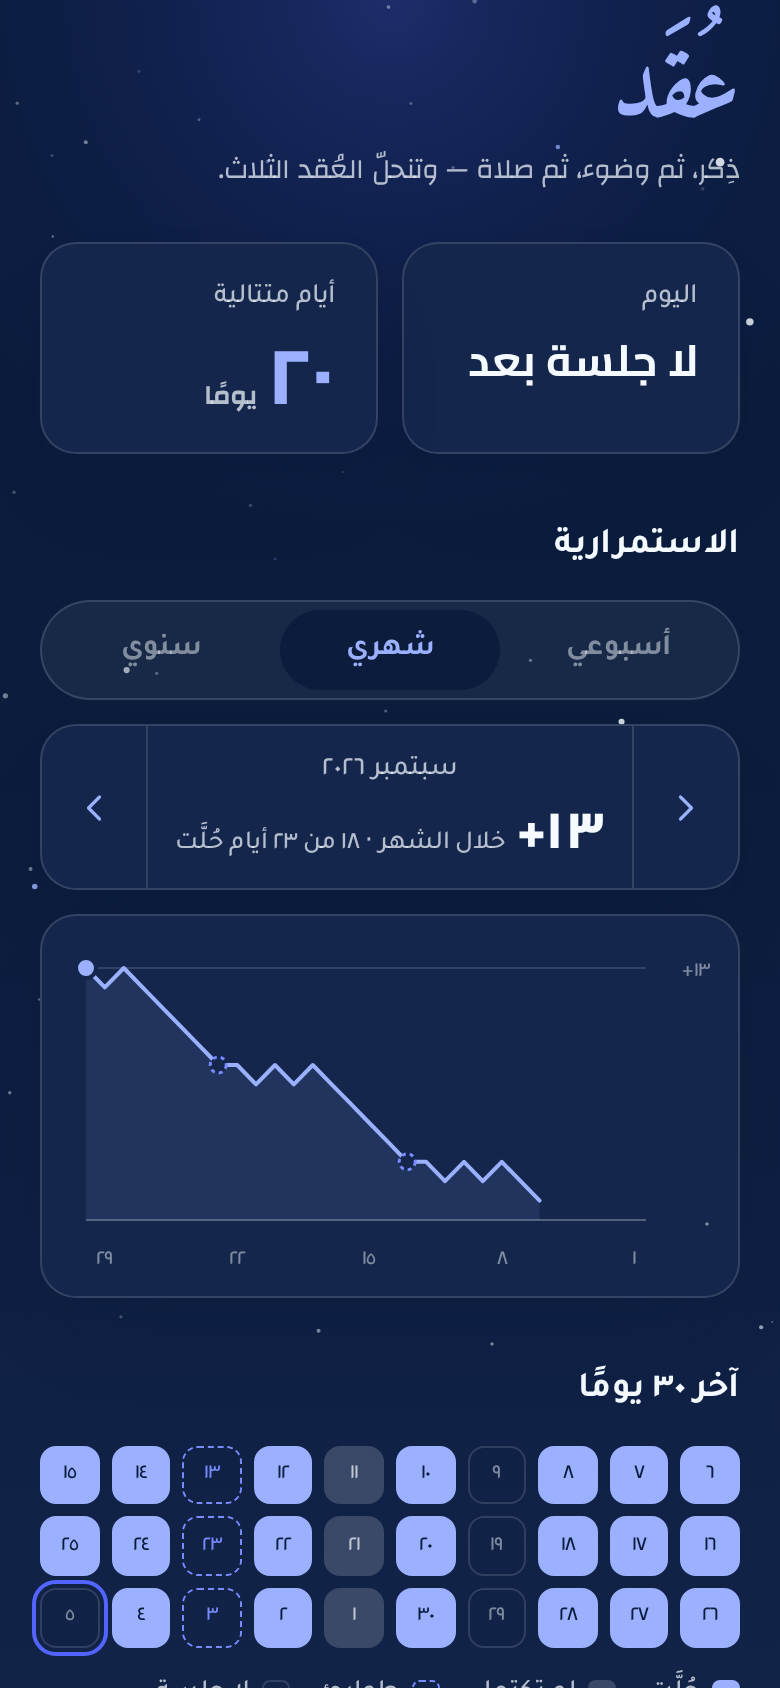
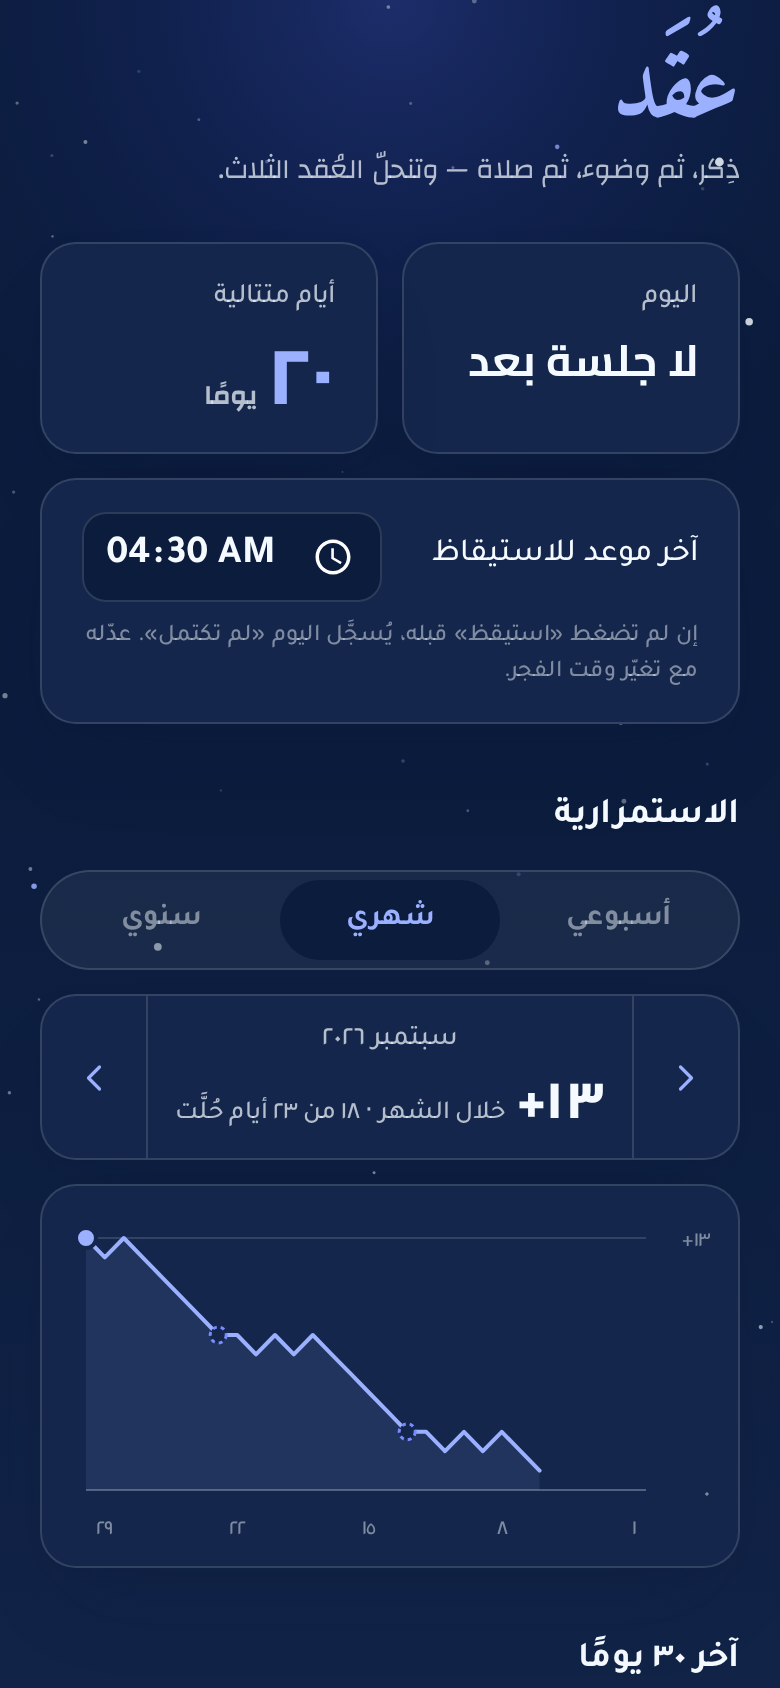
Wake-by deadline: no «استيقظ» by 04:30 → today fails
The alarm automation can only open the web app after an unlock. Two
mornings the app never opened before Fajr, and opening it at 06:00 still
auto-started a session that could be "won". Now, in live mode, if
«استيقظ» hasn't been tapped by the wake-by time, today is recorded as
failed, the failed screen says «لم تضغط «استيقظ» قبل ٤:٣٠», and no
session can start later that day (auto-start or ?start=1). The time is
a setting on the history page (default 04:30) because Fajr moves about
1.5 h across the year. Test mode and the first day of use are exempt.

SW cache bumped to uqad-v8; self-test covers the missed deadline, the
not-woken-in-time case, a later custom deadline, first-day exemption and
the setting control. Live-mode tests now run at 04:10.

Claude-Session: https://claude.ai/code/session_01NirgNbgs5Bq9uAFfk8oC4T

diff --git a/index.html b/index.html
@@ -232,6 +232,15 @@ body[data-screen="home"] .shade { opacity: 0; }
 .stat-label { font-family: var(--font-heading-ar); font-weight: 500; font-size: var(--fs-small); color: var(--fg-2); margin: 0 0 var(--space-1); }
 .stat-value { font-family: var(--font-display-ar); font-weight: 700; font-size: var(--fs-h4); line-height: 1.35; color: var(--fg-1); margin: 0; }
 .stat-big { font-family: var(--font-display-ar); font-weight: 800; font-size: 40px; line-height: 1.1; color: var(--rj-sky-blue); }
+.wake-card { display: flex; flex-wrap: wrap; align-items: center; gap: var(--space-2) var(--space-4); margin-top: var(--space-3); }
+.wake-label { flex: 1; min-width: 0; margin: 0; font-size: var(--fs-body); color: var(--fg-1); }
+.wake-hint { flex-basis: 100%; margin: 0; font-family: var(--font-heading-ar); font-weight: 500; font-size: 12px; line-height: 1.5; color: var(--fg-3); }
+#wake-by {
+  flex: none; color-scheme: dark; direction: ltr;
+  font-family: var(--font-heading-ar); font-weight: 700; font-size: 20px; color: var(--fg-1);
+  background: var(--rj-midnight); border: 1px solid var(--border-1); border-radius: var(--radius-md);
+  padding: 8px 10px; min-height: 44px;
+}
 .stat-note { margin: var(--space-1) 0 0; font-family: var(--font-heading-ar); font-weight: 500; font-size: 12px; line-height: 1.4; color: var(--rj-sky-blue); }
 .stat-unit { font-family: var(--font-body-ar); font-size: var(--fs-small); color: var(--fg-2); margin-inline-start: var(--space-1); }
 .section-title { font-family: var(--font-heading-ar); font-weight: 700; font-size: var(--fs-body-lg); color: var(--fg-1); margin: var(--space-8) 0 var(--space-3); }
@@ -381,6 +390,7 @@ body[data-screen="home"] .shade { opacity: 0; }
     <div class="textblock" data-anchor>
       <h1 class="headline reveal" style="font-weight:700">أصبحتَ اليوم خبيثَ النفسِ كسلان</h1>
       <p class="seg reveal" style="--d:250ms" data-text="fail-seg"></p>
+      <p class="quiet-line reveal" style="--d:450ms" id="fail-reason" hidden></p>
       <p class="quiet-line reveal" style="--d:600ms">غدًا فجرٌ جديد</p>
     </div>
     <div class="reveal" style="--d:800ms">
@@ -414,6 +424,12 @@ body[data-screen="home"] .shade { opacity: 0; }
     <div class="stats">
       <div class="card"><p class="stat-label">اليوم</p><p class="stat-value" id="today-result"></p></div>
       <div class="card"><p class="stat-label">أيام متتالية</p><p class="stat-value"><span class="stat-big" id="streak"></span><span class="stat-unit" id="streak-unit"></span></p><p class="stat-note" id="streak-note" hidden>فاتك يوم — لا تفوّت الثاني</p></div>
+    </div>
+
+    <div class="card wake-card" id="wake-card">
+      <label class="stat-label wake-label" for="wake-by">آخر موعد للاستيقاظ</label>
+      <input type="time" id="wake-by" step="60" required>
+      <p class="wake-hint">إن لم تضغط «استيقظ» قبله، يُسجَّل اليوم «لم تكتمل». عدّله مع تغيّر وقت الفجر.</p>
     </div>
 
     <h2 class="section-title">الاستمرارية</h2>
@@ -489,6 +505,9 @@ body[data-screen="home"] .shade { opacity: 0; }
     storagePrefix: 'uqad.v1.',
     historyDays: 30,
     historyKeepDays: 400,
+    // Live mode: if «استيقظ» hasn't been tapped by this time (Riyadh), today is recorded as failed and no
+    // new session can start. Default only — the user changes it on the history page (Fajr moves with seasons).
+    wakeBy: '04:30',
     // the streak survives a single missed day; this many missed days in a row reset it
     streakBreakAfter: 2,
     tickMs: 250,
@@ -1059,22 +1078,41 @@ body[data-screen="home"] .shade { opacity: 0; }
   let renderedKey = '';
   let screenNow = '';
 
+  const wakeBy = () => { const v = store.get('wakeBy', CONFIG.wakeBy); return /^\d{2}:\d{2}$/.test(v) ? v : CONFIG.wakeBy; };
+  const pastWakeBy = (now = Date.now()) => !TEST && minutesNow(now) >= toMin(wakeBy());
+  const wakeByText = () => { const v = wakeBy(); return `${ar(+v.slice(0, 2))}:${ar(v.slice(3, 5))}`; };
+
   function reconcile(now = Date.now()) {
-    const s = loadSession();
-    if (!s) return null;
-    if (s.phase === 'knot' && now >= s.deadline) {
-      s.phase = 'failed'; s.failedKnot = s.knot; s.endedAt = s.deadline;
-      saveSession(s);
-      record(s.date, 'failed');
+    let s = loadSession();
+    if (s) {
+      if (s.phase === 'knot' && now >= s.deadline) {
+        s.phase = 'failed'; s.failedKnot = s.knot; s.endedAt = s.deadline;
+        saveSession(s);
+        record(s.date, 'failed');
+      }
+      if (s.phase !== 'knot' && !loadHistory()[s.date]) record(s.date, s.phase); // repair a lost write
+      if (s.phase !== 'knot' && s.date !== today(now)) { store.del('session'); s = null; }
     }
-    if (s.phase !== 'knot' && !loadHistory()[s.date]) record(s.date, s.phase); // repair a lost write
-    if (s.phase !== 'knot' && s.date !== today(now)) { store.del('session'); return null; }
+    // wake-by deadline: not woken in time → today fails (never on the very first day of use)
+    if (pastWakeBy(now)) {
+      const d = today(now), h = loadHistory();
+      if (s && s.phase === 'knot' && s.date === d && s.knot === 1 && !isNum(s.wokeAt)) {
+        s.phase = 'failed'; s.failedKnot = 0; s.missedWake = true; s.endedAt = now;
+        saveSession(s);
+        record(d, 'failed');
+      } else if (!s && !h[d] && Object.keys(h).length) {
+        s = { v: 1, date: d, test: false, phase: 'failed', knot: 1, startedAt: now, deadline: now, completed: [], createdAt: now, endedAt: now, failedKnot: 0, missedWake: true };
+        saveSession(s);
+        record(d, 'failed');
+      }
+    }
     return s;
   }
 
   function startSession(now) {
     const d = today(now);
     if (loadHistory()[d]) return null;          // today already finished — never restart
+    if (pastWakeBy(now)) return null;           // too late to start today (live mode)
     const s = {
       v: 1, date: d, test: TEST, phase: 'knot', knot: 1,
       startedAt: now, deadline: now + KNOTS[0].windowSec * 1000,
@@ -1162,6 +1200,11 @@ body[data-screen="home"] .shade { opacity: 0; }
         $('#kcount').textContent = `العقدة ${ar(S.knot)} من ٣`;
         $('#minis').innerHTML = [1, 2, 3].map((n) => miniKnot(n < S.knot ? 'untied' : n === S.knot ? 'current' : 'tied')).join('');
       }
+      if (screen === 'failed') {
+        const fr = $('#fail-reason');
+        fr.hidden = !S.missedWake;
+        if (S.missedWake) fr.textContent = `لم تضغط «استيقظ» قبل ${wakeByText()}`;
+      }
       if (screen === 'success' || screen === 'failed' || screen === 'emergency') {
         const els = $$(`#s-${screen} .reveal`);
         els.forEach((el) => el.classList.remove('is-in'));
@@ -1238,6 +1281,8 @@ body[data-screen="home"] .shade { opacity: 0; }
     $('#streak').textContent = ar(n);
     $('#streak-unit').textContent = n === 1 ? 'يوم' : (n === 2 ? 'يومان' : (n >= 3 && n <= 10 ? 'أيام' : 'يومًا'));
     $('#streak-note').hidden = !(n > 0 && streakAtRisk(h));
+    $('#wake-card').hidden = TEST;
+    if (document.activeElement !== $('#wake-by')) $('#wake-by').value = wakeBy();
     const cells = [];
     for (let i = CONFIG.historyDays - 1; i >= 0; i--) {
       const d = addDays(t, -i);
@@ -1510,6 +1555,12 @@ body[data-screen="home"] .shade { opacity: 0; }
   $$('[data-run]').forEach((b) => b.addEventListener('click', () => runShortcut(b.dataset.run)));
   $$('[data-go="home"]').forEach((b) => b.addEventListener('click', () => { viewHome = true; render(); }));
   $('#btn-back-today').addEventListener('click', () => { viewHome = false; render(); });
+  $('#wake-by').addEventListener('change', (e) => {
+    const v = e.target.value;
+    if (/^\d{2}:\d{2}$/.test(v)) store.set('wakeBy', v);
+    e.target.value = wakeBy();
+    renderHome();
+  });
   $$('#trend-mode button').forEach((b) => b.addEventListener('click', () => {
     trend.mode = b.dataset.mode; trend.offset = 0; store.set('trendMode', trend.mode); renderTrend();
   }));
@@ -1535,7 +1586,7 @@ body[data-screen="home"] .shade { opacity: 0; }
 
   // Live web app opened in the Fajr window with no session today → start it.
   function maybeAutoStart(now = Date.now()) {
-    if (TEST || !STANDALONE || S) return false;
+    if (TEST || !STANDALONE || S || pastWakeBy(now)) return false;
     const m = minutesNow(now), a = toMin(CONFIG.autoStart.from), b = toMin(CONFIG.autoStart.to);
     if (m < a || m >= b) return false;
     const s = startSession(now);                       // returns null if today already has a result
@@ -1604,7 +1655,7 @@ body[data-screen="home"] .shade { opacity: 0; }
   }
 
   // test hook (harmless in production)
-  window.__uqad = { CONFIG, KNOTS, TEXT, STANDALONE, get session() { return S; }, today, streak, loadHistory };
+  window.__uqad = { CONFIG, KNOTS, TEXT, STANDALONE, wakeBy, get session() { return S; }, today, streak, loadHistory };
 })();
 </script>
 </body>

diff --git a/sw.js b/sw.js
@@ -1,5 +1,5 @@
 /* عُقَد — offline cache. Bump VERSION whenever any shell file changes. */
-const VERSION = 'uqad-v7';
+const VERSION = 'uqad-v8';
 const SHELL = [
   './',
   './index.html',

diff --git a/README.md b/README.md
@@ -52,6 +52,7 @@ webapp://rjverse.github.io/Uqad/
 
 - On iOS 26, `webapp://` opens the **installed web app** instead of Safari. It always opens the app's start page and drops any `?query`, so the app can't be told `?start=1`.
 - Instead, the web app **starts today's session by itself** when it's opened between **03:00 and 07:00** (Riyadh) and today has no session yet. Change the window in `CONFIG.autoStart`. A running or finished day is never restarted. Opening it outside the window, or in a Safari tab, just shows home.
+- **Wake-by deadline (live mode):** if «استيقظ» hasn't been tapped by the time set on the history page («آخر موعد للاستيقاظ», default **04:30**), today is recorded as لم تكتمل and no session can start later that day. The failed screen says why. Move it with the seasons, since Fajr shifts by about 1.5 hours over the year. Test mode and your first day of use are exempt.
 - The first screen is one big «استيقظ» button. iOS only allows sound after a tap, so this tap starts knot 1 and its alarm tone. Knot 1's 5-minute window counts from when the app opened; its 1-minute lock counts from the tap.
 - The wake screen plays the opening: the hadith's first lines appear while the three knots tie at the nape. The button works immediately, so you never have to wait for it.
 - With a passcode / Face ID, iOS asks you to unlock before the app opens. The session starts when the app opens, so unlocking doesn't eat into your time.
